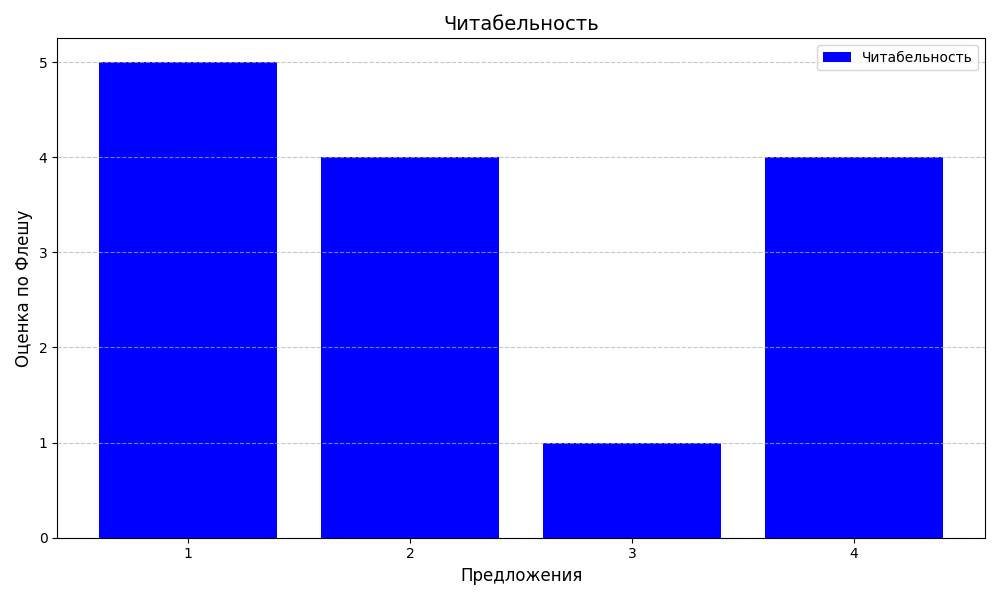
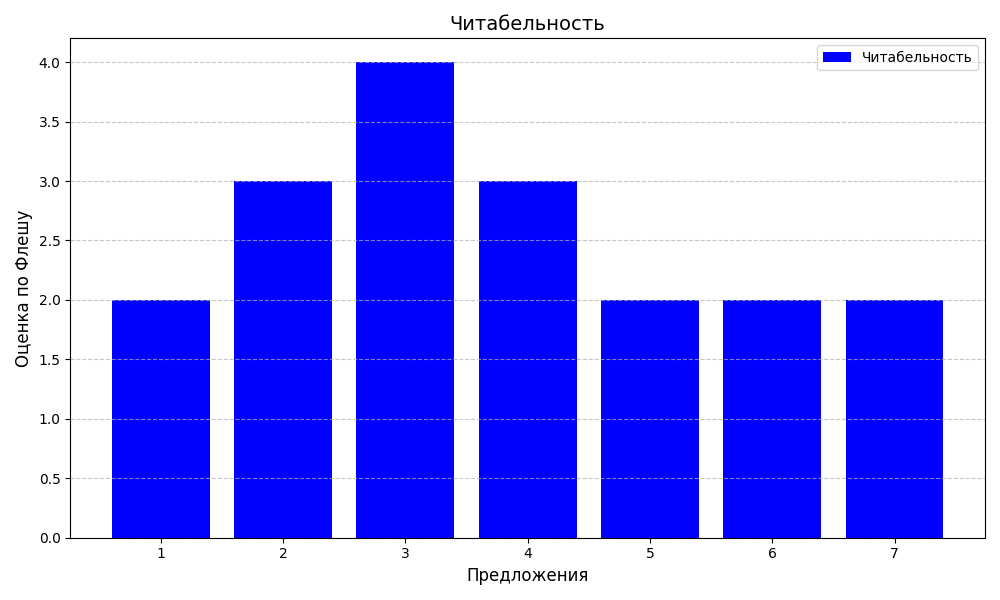
Last version

diff --git a/Use.py b/Use.py
@@ -4,10 +4,16 @@ from Graphics.Readability import ReadabilityPlotter
 from Graphics.Sentimentality import SentimentPlotter
 
 # Текст для анализа
-text = "злой. добрый .нейтральный. добрый."
+text = ("Утро началось с яркого солнца, которое заливало город своим светом. "
+        "Люди спешили по делам, радуясь хорошей погоде. "
+        "В парке играли дети, слышался звонкий смех. "
+        "Дети кричали очень громко, и это раздражало всех и портило настроение. "
+        "Прохожие спрятались под навесами, ожидая, когда стихнет ливень. "
+        "Через час дождь закончиился, и на горизонте появилась красивая радуга. "
+        "Дети снова побежали играть, наполняя город шумом и движеением.")
 
 # Слова для проверки
-user_words = ["проверка", "чистый", "нейтральный"],
+user_words = ["взрослые", "грусть", "тишина", "снег"],
 
 # Вызов анализа техта
 result = TextAnalysis.process_text(

diff --git a/Graphics/ErrorRate.py b/Graphics/ErrorRate.py
@@ -9,7 +9,7 @@ class ErrorRatePlotter:
         self.error_counts = error_counts
 
     def plot(self):
-        plt.figure(figsize=(10, 6))
+        plt.figure(figsize=(20, 6))
         plt.plot(
             range(1, len(self.error_counts) + 1),
             self.error_counts,
